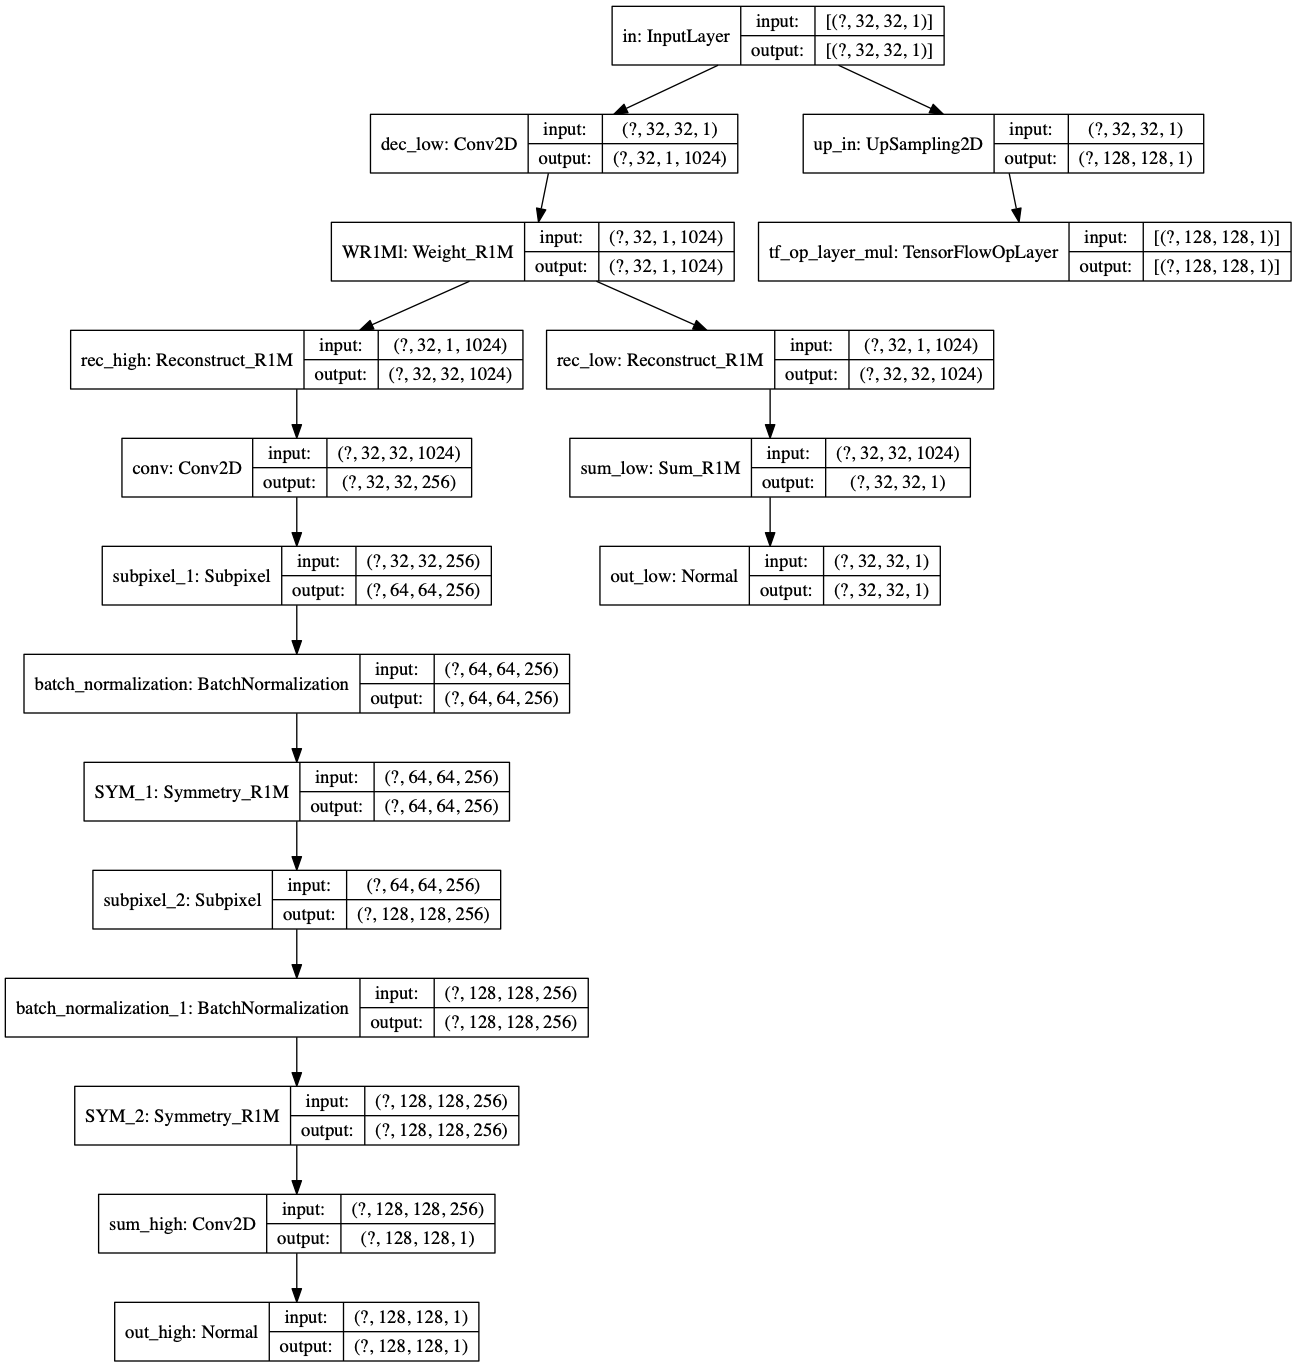
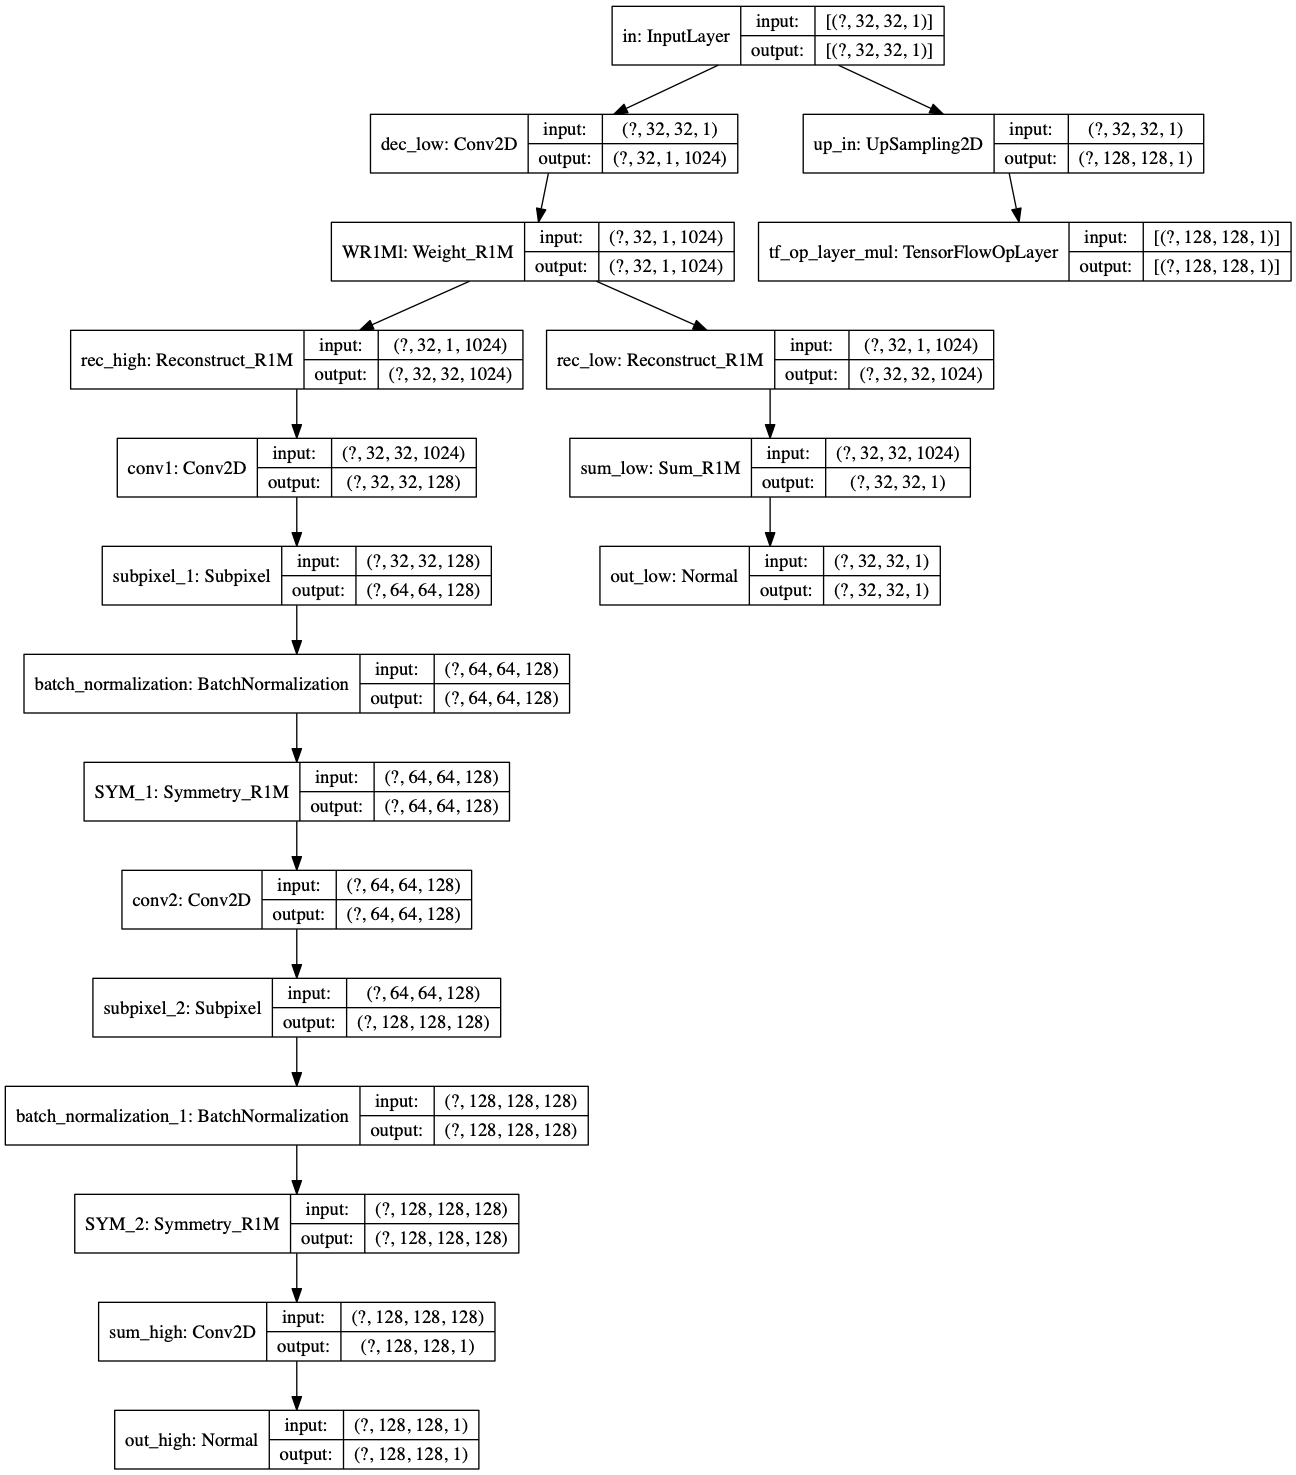
update

Changed region(s): [[0.0, 0.0, 1.0, 1.0]]

diff --git a/model.py b/model.py
@@ -169,20 +169,25 @@ def make_generator_model(len_low_size=16, scale=4):
 
     Rech = Reconstruct_R1M(1024, name='rec_high')(WeiR1Ml)
 
-    conv = tf.keras.layers.Conv2D(256, [3, 3], strides=1, padding='same', data_format="channels_last", 
+    conv1 = tf.keras.layers.Conv2D(128, [3, 3], strides=1, padding='same', data_format="channels_last", 
                                     activation='relu', use_bias=False,
                                     kernel_initializer=tf.keras.initializers.RandomNormal(mean=0.01, stddev=0.1), 
-                                    name='conv')(Rech)
-    trans_1 = Subpixel(filters= int(256), kernel_size=(3,3), r=2, 
+                                    name='conv1')(Rech)
+    trans_1 = Subpixel(filters= int(128), kernel_size=(3,3), r=2, 
                         activation='relu', use_bias=False, padding='same', 
                         kernel_initializer=tf.keras.initializers.RandomNormal(mean=0.01, stddev=0.1), 
-                        name='subpixel_1')(conv)
+                        name='subpixel_1')(conv1)
     batchnorm = tf.keras.layers.BatchNormalization()(trans_1)
     sym = Symmetry_R1M(name='SYM_1')(batchnorm)
-    trans_2 = Subpixel(filters= int(256), kernel_size=(3,3), r=2, 
+
+    conv2 = tf.keras.layers.Conv2D(128, [3, 3], strides=1, padding='same', data_format="channels_last", 
+                                    activation='relu', use_bias=False,
+                                    kernel_initializer=tf.keras.initializers.RandomNormal(mean=0.01, stddev=0.1), 
+                                    name='conv2')(sym)
+    trans_2 = Subpixel(filters= int(128), kernel_size=(3,3), r=2, 
                         activation='relu', use_bias=False, padding='same', 
                         kernel_initializer=tf.keras.initializers.RandomNormal(mean=0.01, stddev=0.1), 
-                        name='subpixel_2')(sym)
+                        name='subpixel_2')(conv2)
     batchnorm = tf.keras.layers.BatchNormalization()(trans_2)
     sym = Symmetry_R1M(name='SYM_2')(batchnorm)
     Sumh = tf.keras.layers.Conv2D(filters=1, kernel_size=(1,1),
@@ -425,11 +430,12 @@ def train_step_generator(Gen, Dis, imgl, imgr, loss_filter, loss_weights, opts, 
         disc_generated_output = Dis(fake_hic_h, training=False)
         gen_high_v = []
         gen_high_v += Gen.get_layer('rec_high').trainable_variables
-        gen_high_v += Gen.get_layer('conv').trainable_variables
+        gen_high_v += Gen.get_layer('conv1').trainable_variables
         #gen_high_v += Gen.get_layer('batch_normalization').trainable_variables
         #gen_high_v += Gen.get_layer('C2DT1').trainable_variables
         gen_high_v += Gen.get_layer('subpixel_1').trainable_variables
         gen_high_v += Gen.get_layer('batch_normalization').trainable_variables
+        gen_high_v += Gen.get_layer('conv2').trainable_variables
         gen_high_v += Gen.get_layer('subpixel_2').trainable_variables
         gen_high_v += Gen.get_layer('batch_normalization_1').trainable_variables
         gen_high_v += Gen.get_layer('sum_high').trainable_variables
